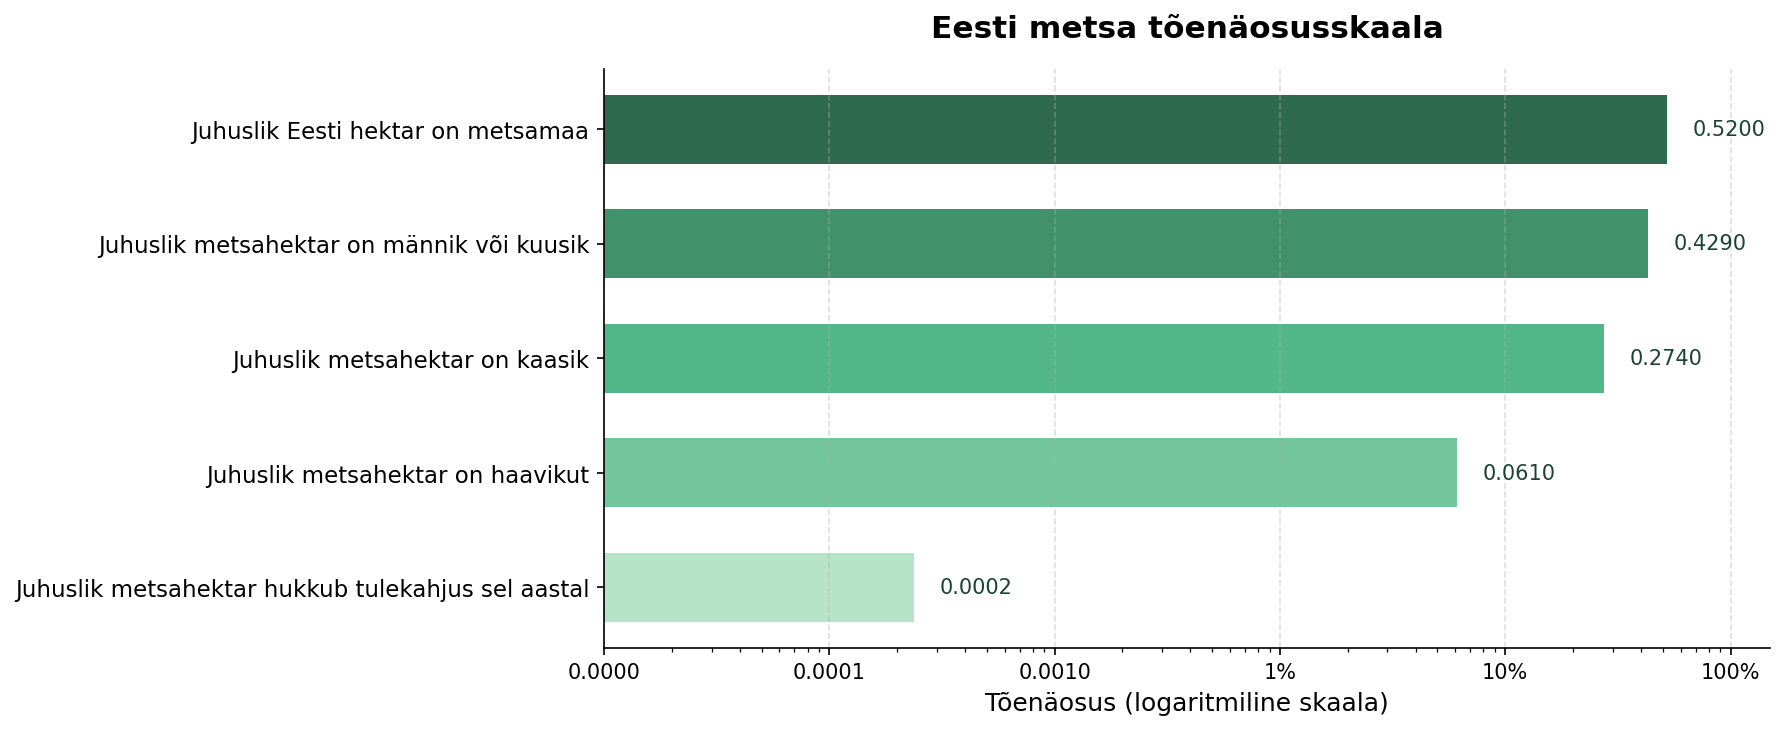
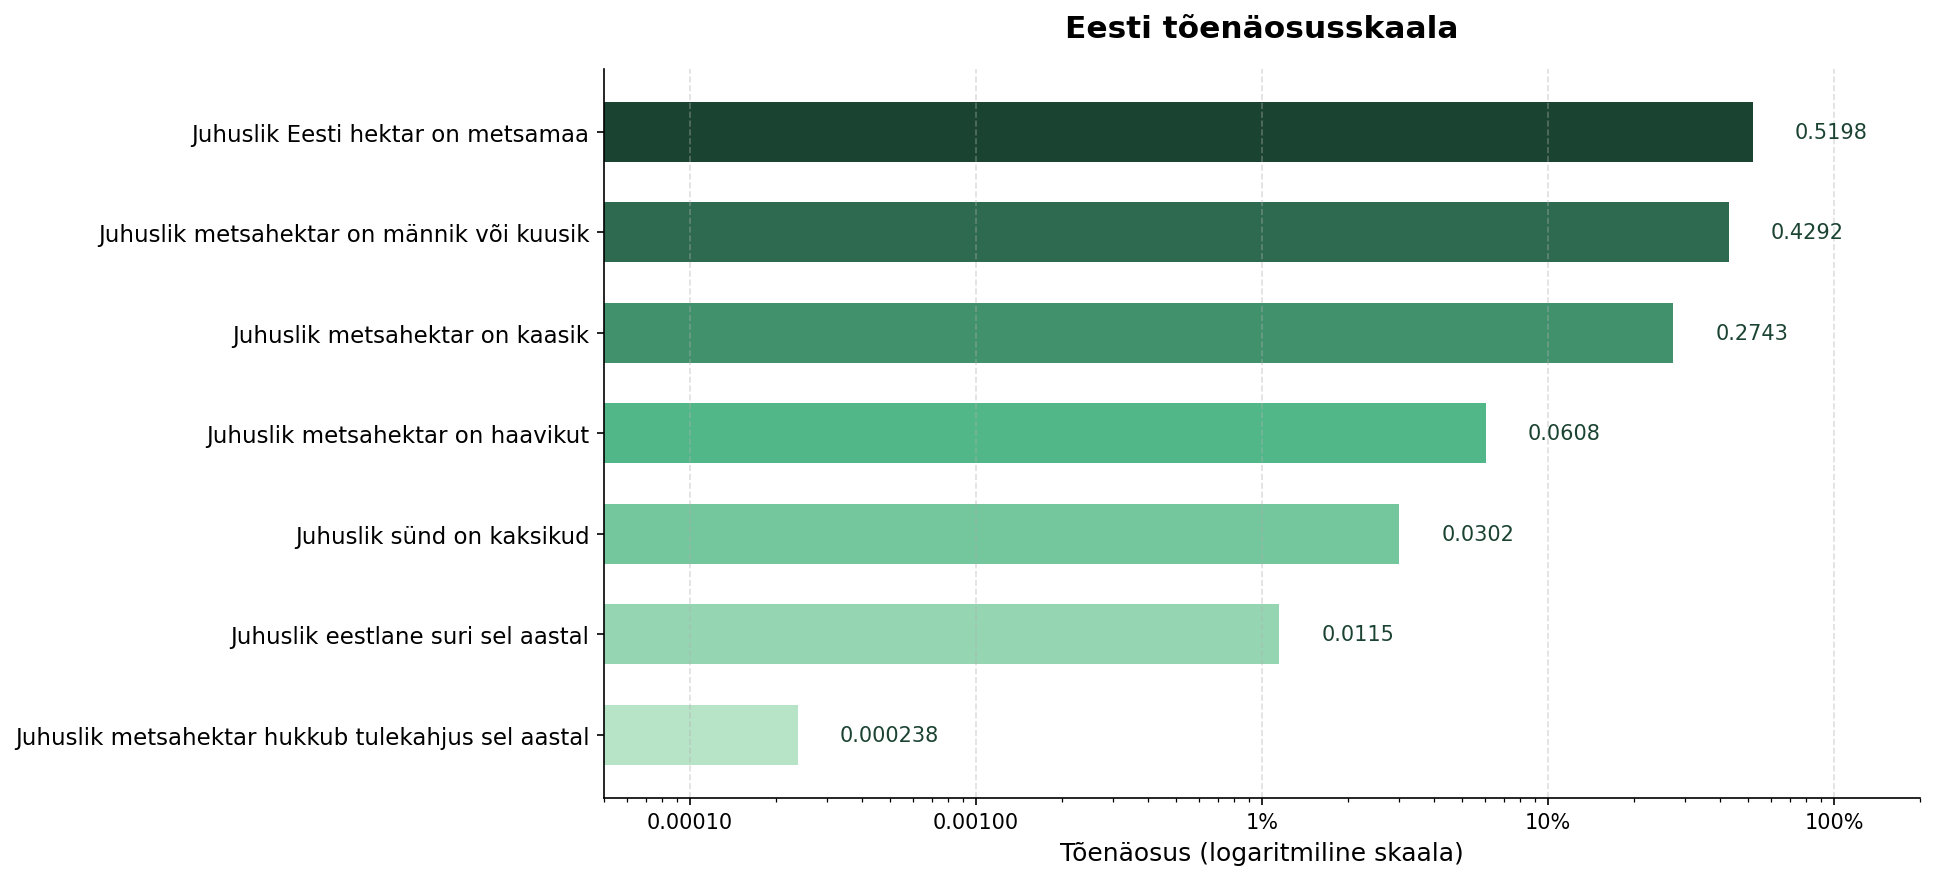
Add population events: twin births and annual death probability

diff --git a/src/compute_probs.py b/src/compute_probs.py
@@ -1,17 +1,20 @@
 """
-Compute probabilities for the Estonian forest probability scale.
+Compute probabilities for the Estonian forest and population probability scale.
 
-Data source: Statistics Estonia (stat.ee)
+Data sources: Statistics Estonia (stat.ee)
   - KK51.PX:  forest area by tree species, National Forest Inventory, 1999-2024
   - KK513.PX: destroyed forest stands by cause, 1991-2024
+  - RV104.PX: births by multiplicity (single, twins, triplets), 1922-2024
+  - RV40.PX:  deaths by month, 1927-2024
 
 All probabilities are derived programmatically from the fetched data.
 """
 
 import pandas as pd
-from fetch_data import fetch_forest_stock, fetch_damaged_forest
+from fetch_data import fetch_forest_stock, fetch_damaged_forest, fetch_births, fetch_deaths
 
 ESTONIA_TOTAL_AREA_KHA = 4522.0  # Estonia total land area in thousand hectares
+ESTONIA_POPULATION = 1_374_687   # Estonia population, 2024 census
 
 
 def parse_forest_stock(raw: dict) -> pd.DataFrame:
@@ -46,44 +49,97 @@ def parse_damaged_forest(raw: dict) -> pd.DataFrame:
     return df.pivot(index="year", columns="cause", values="area_ha")
 
 
-def compute_probabilities(stock_df: pd.DataFrame, damaged_df: pd.DataFrame) -> list[dict]:
+def parse_births(raw: dict) -> pd.DataFrame:
+    """
+    Parse the raw RV104.PX response into a DataFrame.
+    Rows = years, columns = indicator codes (1=kokku, 3=kaksikud).
+    """
+    records = []
+    for entry in raw["data"]:
+        year, indicator = entry["key"]
+        raw_value = entry["values"][0]
+        value = 0.0 if raw_value == ".." else float(raw_value)
+        records.append({"indicator": int(indicator), "year": int(year), "count": value})
+
+    df = pd.DataFrame(records)
+    return df.pivot(index="year", columns="indicator", values="count")
+
+
+def parse_deaths(raw: dict) -> pd.DataFrame:
+    """
+    Parse the raw RV40.PX response into a DataFrame.
+    Rows = years, column = annual death count.
+    """
+    records = []
+    for entry in raw["data"]:
+        year, _month = entry["key"]
+        value = float(entry["values"][0])
+        records.append({"year": int(year), "deaths": value})
+
+    return pd.DataFrame(records).set_index("year")
+
+
+def compute_probabilities(
+    stock_df: pd.DataFrame,
+    damaged_df: pd.DataFrame,
+    births_df: pd.DataFrame,
+    deaths_df: pd.DataFrame,
+) -> list[dict]:
     """
     Compute a list of events with their probabilities.
-    Uses 2024 data for forest stock, and a 10-year average (2015-2024) for fire damage.
+
+    Uses 2024 data where available. Fire damage uses a 10-year average
+    (2015-2024) to smooth out year-to-year variation.
+
     Returns a list of dicts with keys: event, probability, source.
     """
-    latest = stock_df.loc[2024]
+    latest_stock = stock_df.loc[2024]
+    total_forest_kha = latest_stock[1]
+    conifer_kha = latest_stock[3] + latest_stock[4]
+    birch_kha = latest_stock[5]
+    aspen_kha = latest_stock[6]
 
-    total_forest_kha = latest[1]         # kogu metsamaa
-    conifer_kha = latest[3] + latest[4]  # männik + kuusik
-    birch_kha = latest[5]                # kaasik
-    aspen_kha = latest[6]                # haab
-
-    # Average annual fire damage over last 10 years (in ha)
     fire_avg_ha = damaged_df.loc[2015:2024, 7].mean()
     total_forest_ha = total_forest_kha * 1000
     fire_prob = fire_avg_ha / total_forest_ha
 
+    total_births_2024 = births_df.loc[2024, 1]
+    twin_births_2024 = births_df.loc[2024, 3]
+    twin_prob = (twin_births_2024 * 2) / total_births_2024
+
+    deaths_2024 = deaths_df.loc[2024, "deaths"]
+    death_prob = deaths_2024 / ESTONIA_POPULATION
+
     return [
         {
             "event": "Juhuslik Eesti hektar on metsamaa",
-            "probability": round(total_forest_kha / ESTONIA_TOTAL_AREA_KHA, 3),
+            "probability": round(total_forest_kha / ESTONIA_TOTAL_AREA_KHA, 4),
             "source": "Statistikaamet KK51.PX, 2024"
         },
         {
             "event": "Juhuslik metsahektar on männik või kuusik",
-            "probability": round(conifer_kha / total_forest_kha, 3),
+            "probability": round(conifer_kha / total_forest_kha, 4),
             "source": "Statistikaamet KK51.PX, 2024"
         },
         {
             "event": "Juhuslik metsahektar on kaasik",
-            "probability": round(birch_kha / total_forest_kha, 3),
+            "probability": round(birch_kha / total_forest_kha, 4),
             "source": "Statistikaamet KK51.PX, 2024"
         },
         {
+            "event": "Juhuslik eestlane suri sel aastal",
+            "probability": round(death_prob, 4),
+            "source": "Statistikaamet RV40.PX, 2024"
+        },
+        {
             "event": "Juhuslik metsahektar on haavikut",
-            "probability": round(aspen_kha / total_forest_kha, 3),
+            "probability": round(aspen_kha / total_forest_kha, 4),
             "source": "Statistikaamet KK51.PX, 2024"
+        },
+        {
+            "event": "Juhuslik sünd on kaksikud",
+            "probability": round(twin_prob, 4),
+            "source": "Statistikaamet RV104.PX, 2024"
         },
         {
             "event": "Juhuslik metsahektar hukkub tulekahjus sel aastal",
@@ -96,11 +152,15 @@ def compute_probabilities(stock_df: pd.DataFrame, damaged_df: pd.DataFrame) -> l
 if __name__ == "__main__":
     stock_raw = fetch_forest_stock()
     damaged_raw = fetch_damaged_forest()
+    births_raw = fetch_births()
+    deaths_raw = fetch_deaths()
 
     stock_df = parse_forest_stock(stock_raw)
     damaged_df = parse_damaged_forest(damaged_raw)
+    births_df = parse_births(births_raw)
+    deaths_df = parse_deaths(deaths_raw)
 
-    probs = compute_probabilities(stock_df, damaged_df)
+    probs = compute_probabilities(stock_df, damaged_df, births_df, deaths_df)
 
     for p in probs:
         print(f"{p['probability']:.6f}  {p['event']}")

diff --git a/src/fetch_data.py b/src/fetch_data.py
@@ -1,17 +1,22 @@
 """
-Fetch forest inventory data from Statistics Estonia (stat.ee) API.
+Fetch forest and population data from Statistics Estonia (stat.ee) API.
 
 The API follows the PX-Web standard. We query:
-  - KK51.PX:  forest stock estimates from the National Forest Inventory (SMI), 1999-2024
-  - KK513.PX: destroyed forest stands by cause and county, 1991-2024
+  - KK51.PX:  forest area by tree species, National Forest Inventory, 1999-2024
+  - KK513.PX: destroyed forest stands by cause, 1991-2024
+  - RV104.PX: births by multiplicity (single, twins, etc.), 1922-2024
+  - RV40.PX:  deaths by month, 1927-2024
 """
 
 import json
 import requests
 
 BASE_URL = "https://andmed.stat.ee/api/v1/et/stat"
+
 STOCK_TABLE_PATH = "keskkond/loodusvarad-ja-nende-kasutamine/metsavaru/KK51.PX"
 DAMAGED_TABLE_PATH = "keskkond/loodusvarad-ja-nende-kasutamine/metsavaru/KK513.PX"
+BIRTHS_TABLE_PATH = "rahvastik/rahvastikusundmused/sunnid/RV104.PX"
+DEATHS_TABLE_PATH = "rahvastik/rahvastikusundmused/surmad/RV40.PX"
 
 
 def fetch_forest_stock() -> dict:
@@ -38,9 +43,7 @@ def fetch_forest_stock() -> dict:
                 }
             }
         ],
-        "response": {
-            "format": "json"
-        }
+        "response": {"format": "json"}
     }
 
     response = requests.post(url, json=query)
@@ -80,9 +83,73 @@ def fetch_damaged_forest() -> dict:
                 }
             }
         ],
-        "response": {
-            "format": "json"
-        }
+        "response": {"format": "json"}
+    }
+
+    response = requests.post(url, json=query)
+    response.raise_for_status()
+    return response.json()
+
+
+def fetch_births() -> dict:
+    """
+    Fetch birth counts by multiplicity (single, twins, triplets) from Statistics Estonia.
+    Table RV104.PX: number of deliveries and multiple births, 1922-2024.
+    Indicator codes: 1=Kokku, 2=üksikud, 3=kaksikud, 4=kolmikud
+    """
+    url = f"{BASE_URL}/{BIRTHS_TABLE_PATH}"
+
+    query = {
+        "query": [
+            {
+                "code": "Näitaja",
+                "selection": {
+                    "filter": "item",
+                    "values": ["1", "3"]
+                }
+            },
+            {
+                "code": "Aasta",
+                "selection": {
+                    "filter": "all",
+                    "values": ["*"]
+                }
+            }
+        ],
+        "response": {"format": "json"}
+    }
+
+    response = requests.post(url, json=query)
+    response.raise_for_status()
+    return response.json()
+
+
+def fetch_deaths() -> dict:
+    """
+    Fetch annual death counts from Statistics Estonia.
+    Table RV40.PX: deaths by month, 1927-2024.
+    We request only the yearly total (Surmakuu=1 means 'Kuud kokku').
+    """
+    url = f"{BASE_URL}/{DEATHS_TABLE_PATH}"
+
+    query = {
+        "query": [
+            {
+                "code": "Surmakuu",
+                "selection": {
+                    "filter": "item",
+                    "values": ["1"]
+                }
+            },
+            {
+                "code": "Aasta",
+                "selection": {
+                    "filter": "all",
+                    "values": ["*"]
+                }
+            }
+        ],
+        "response": {"format": "json"}
     }
 
     response = requests.post(url, json=query)
@@ -91,5 +158,7 @@ def fetch_damaged_forest() -> dict:
 
 
 if __name__ == "__main__":
-    data = fetch_damaged_forest()
-    print(json.dumps(data, indent=2, ensure_ascii=False))
+    print("--- Births ---")
+    print(json.dumps(fetch_births(), indent=2, ensure_ascii=False)[:500])
+    print("--- Deaths ---")
+    print(json.dumps(fetch_deaths(), indent=2, ensure_ascii=False)[:500])

diff --git a/src/visualize.py b/src/visualize.py
@@ -1,19 +1,24 @@
 """
-Visualize the Estonian forest probability scale.
+Visualize the Estonian forest and population probability scale.
 
 Produces a horizontal log-scale chart saved to output/probability_scale.png.
 """
 
 import matplotlib.pyplot as plt
 import matplotlib.ticker as ticker
-import numpy as np
 import sys
 import os
 
 sys.path.insert(0, os.path.dirname(__file__))
 
-from compute_probs import compute_probabilities, parse_forest_stock, parse_damaged_forest
-from fetch_data import fetch_forest_stock, fetch_damaged_forest
+from compute_probs import (
+    compute_probabilities,
+    parse_forest_stock,
+    parse_damaged_forest,
+    parse_births,
+    parse_deaths,
+)
+from fetch_data import fetch_forest_stock, fetch_damaged_forest, fetch_births, fetch_deaths
 
 OUTPUT_PATH = "output/probability_scale.png"
 
@@ -21,36 +26,42 @@ OUTPUT_PATH = "output/probability_scale.png"
 def plot_probability_scale(probs: list[dict]) -> None:
     """
     Draw a horizontal log-scale probability chart and save to OUTPUT_PATH.
+    Events are sorted by probability descending.
     """
-    labels = [p["event"] for p in probs]
-    values = [p["probability"] for p in probs]
+    probs_sorted = sorted(probs, key=lambda p: p["probability"], reverse=True)
 
-    fig, ax = plt.subplots(figsize=(12, 5))
+    labels = [p["event"] for p in probs_sorted]
+    values = [p["probability"] for p in probs_sorted]
 
-    colors = ["#2d6a4f", "#40916c", "#52b788", "#74c69d", "#b7e4c7"]
+    fig, ax = plt.subplots(figsize=(13, 6))
 
-    y_positions = range(len(labels))
-    bars = ax.barh(list(y_positions), values, color=colors, height=0.6)
+    green_shades = [
+        "#1b4332", "#2d6a4f", "#40916c",
+        "#52b788", "#74c69d", "#95d5b2", "#b7e4c7"
+    ]
+
+    y_positions = list(range(len(labels)))
+    bars = ax.barh(y_positions, values, color=green_shades[:len(labels)], height=0.6)
 
     ax.set_xscale("log")
-    ax.set_xlim(0.00001, 1.5)
+    ax.set_xlim(0.00005, 2.0)
     ax.xaxis.set_major_formatter(ticker.FuncFormatter(
-        lambda x, _: f"{x:.0%}" if x >= 0.01 else f"{x:.4f}"
+        lambda x, _: f"{x:.0%}" if x >= 0.01 else f"{x:.5f}"
     ))
 
-    ax.set_yticks(list(y_positions))
+    ax.set_yticks(y_positions)
     ax.set_yticklabels(labels, fontsize=11)
     ax.invert_yaxis()
 
     for bar, val in zip(bars, values):
         ax.text(
-            val * 1.3, bar.get_y() + bar.get_height() / 2,
-            f"{val:.4f}",
+            val * 1.4, bar.get_y() + bar.get_height() / 2,
+            f"{val:.4f}" if val >= 0.001 else f"{val:.6f}",
             va="center", ha="left", fontsize=10, color="#1b4332"
         )
 
     ax.set_xlabel("Tõenäosus (logaritmiline skaala)", fontsize=12)
-    ax.set_title("Eesti metsa tõenäosusskaala", fontsize=15, fontweight="bold", pad=15)
+    ax.set_title("Eesti tõenäosusskaala", fontsize=15, fontweight="bold", pad=15)
     ax.spines["top"].set_visible(False)
     ax.spines["right"].set_visible(False)
     ax.grid(axis="x", linestyle="--", alpha=0.4)
@@ -63,9 +74,13 @@ def plot_probability_scale(probs: list[dict]) -> None:
 if __name__ == "__main__":
     stock_raw = fetch_forest_stock()
     damaged_raw = fetch_damaged_forest()
+    births_raw = fetch_births()
+    deaths_raw = fetch_deaths()
 
     stock_df = parse_forest_stock(stock_raw)
     damaged_df = parse_damaged_forest(damaged_raw)
+    births_df = parse_births(births_raw)
+    deaths_df = parse_deaths(deaths_raw)
 
-    probs = compute_probabilities(stock_df, damaged_df)
+    probs = compute_probabilities(stock_df, damaged_df, births_df, deaths_df)
     plot_probability_scale(probs)
